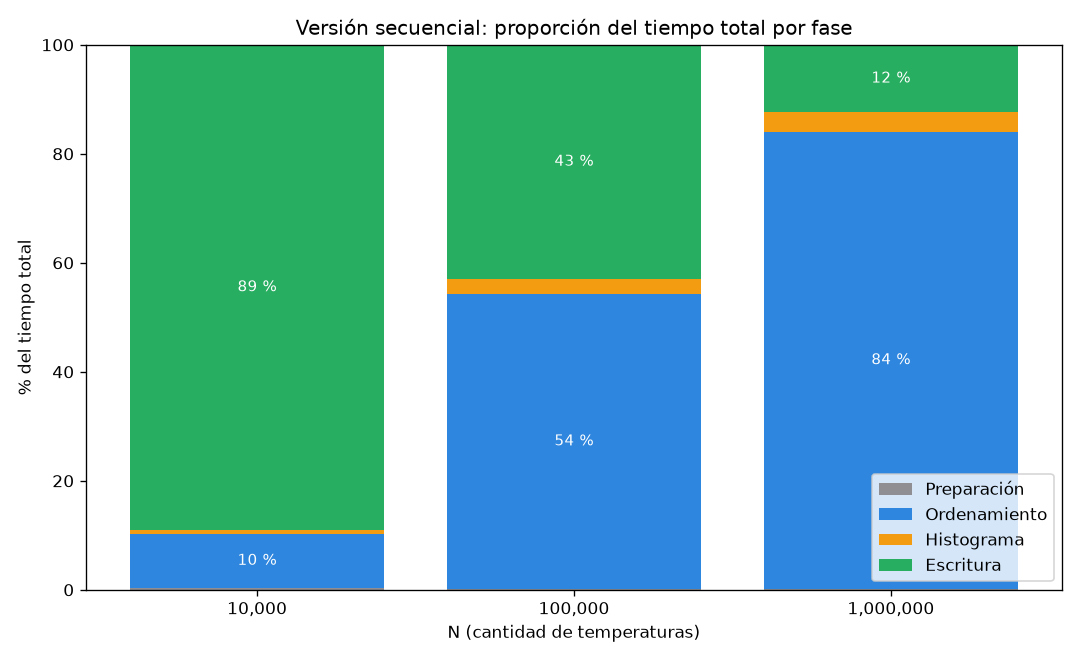
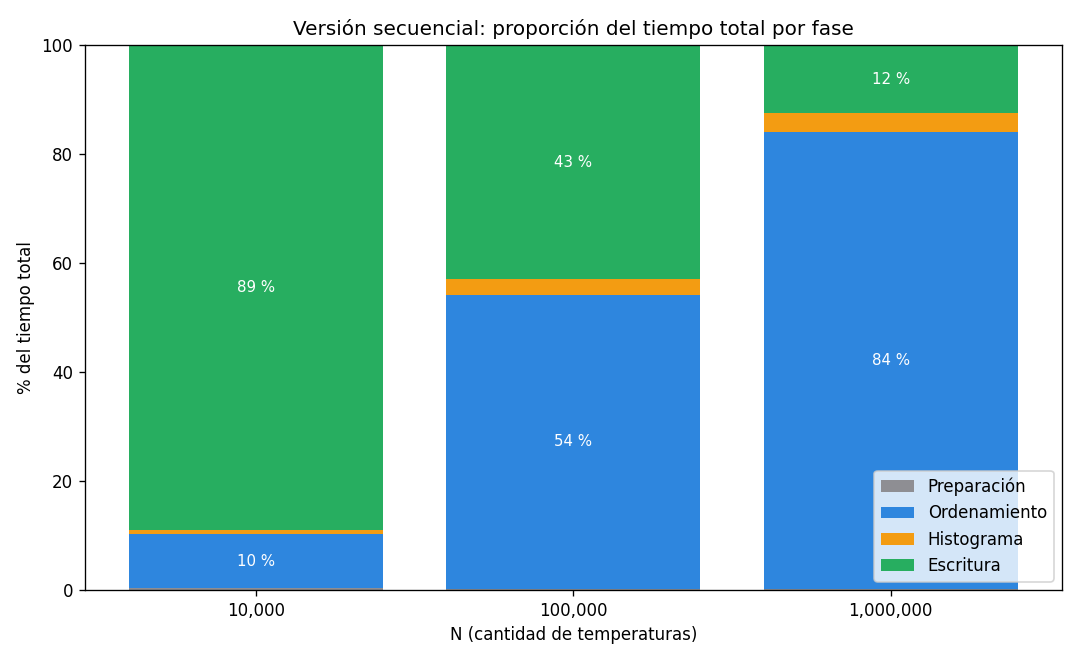
results(cuda): tiempos oficiales de Colab con GPU T4, speedup y evidencias

diff --git a/resultados/tabla_comparativa.md b/resultados/tabla_comparativa.md
@@ -1,0 +1,43 @@
+**N = 10,000**
+
+| Fase | Secuencial (s) | CUDA (s) | Speedup |
+|---|---|---|---|
+| Preparación (CPU) | 0.0010 | 0.0342 | 0.03× |
+| Ordenamiento (kernel) | 0.0344 | 0.0083 | 4.16× |
+| Histograma (kernel) | 0.0023 | 0.0004 | 5.75× |
+| Cálculo GPU + transferencias | 0.0367 | 0.0095 | 3.86× |
+| Escritura (CPU) | 0.3059 | 0.3366 | 0.91× |
+| **Total** | 0.3436 | 0.3810 | **0.90×** |
+| *Límite de Amdahl (GPU en 0 s)* | 0.3436 | 0.3708 | *0.93×* |
+
+**N = 100,000**
+
+| Fase | Secuencial (s) | CUDA (s) | Speedup |
+|---|---|---|---|
+| Preparación (CPU) | 0.0016 | 0.0304 | 0.05× |
+| Ordenamiento (kernel) | 0.3942 | 0.0646 | 6.10× |
+| Histograma (kernel) | 0.0208 | 0.0004 | 49.34× |
+| Cálculo GPU + transferencias | 0.4150 | 0.0660 | 6.29× |
+| Escritura (CPU) | 0.3137 | 0.3238 | 0.97× |
+| **Total** | 0.7303 | 0.4208 | **1.74×** |
+| *Límite de Amdahl (GPU en 0 s)* | 0.7303 | 0.3542 | *2.06×* |
+
+**N = 1,000,000**
+
+| Fase | Secuencial (s) | CUDA (s) | Speedup |
+|---|---|---|---|
+| Preparación (CPU) | 0.0099 | 0.0631 | 0.16× |
+| Ordenamiento (kernel) | 5.5106 | 0.2899 | 19.01× |
+| Histograma (kernel) | 0.2313 | 0.0006 | 376.49× |
+| Cálculo GPU + transferencias | 5.7420 | 0.2949 | 19.47× |
+| Escritura (CPU) | 0.8153 | 0.9911 | 0.82× |
+| **Total** | 6.5672 | 1.3499 | **4.86×** |
+| *Límite de Amdahl (GPU en 0 s)* | 6.5672 | 1.0543 | *6.23×* |
+
+**Desglose de la versión CUDA (promedio ± desviación, s)**
+
+| N | Preparación | Transferencia H→D | Ordenamiento | Histograma | Transferencia D→H | Escritura | Total |
+|---|---|---|---|---|---|---|---|
+| 10,000 | 0.0342 ± 0.0089 | 0.0007 ± 0.0001 | 0.0083 ± 0.0002 | 0.0004 ± 0.0001 | 0.0002 ± 0.0000 | 0.3366 ± 0.0696 | 0.3810 ± 0.0756 |
+| 100,000 | 0.0304 ± 0.0022 | 0.0007 ± 0.0001 | 0.0646 ± 0.0001 | 0.0004 ± 0.0001 | 0.0003 ± 0.0001 | 0.3238 ± 0.0100 | 0.4208 ± 0.0101 |
+| 1,000,000 | 0.0631 ± 0.0121 | 0.0019 ± 0.0004 | 0.2899 ± 0.0366 | 0.0006 ± 0.0001 | 0.0024 ± 0.0006 | 0.9911 ± 0.2149 | 1.3499 ± 0.2217 |
